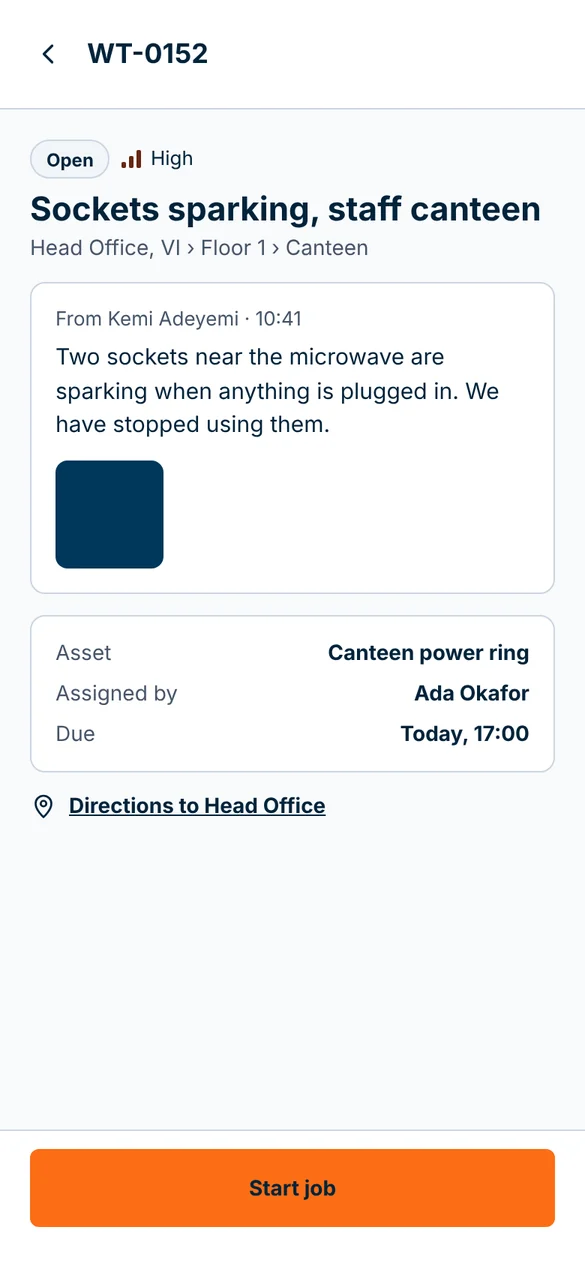
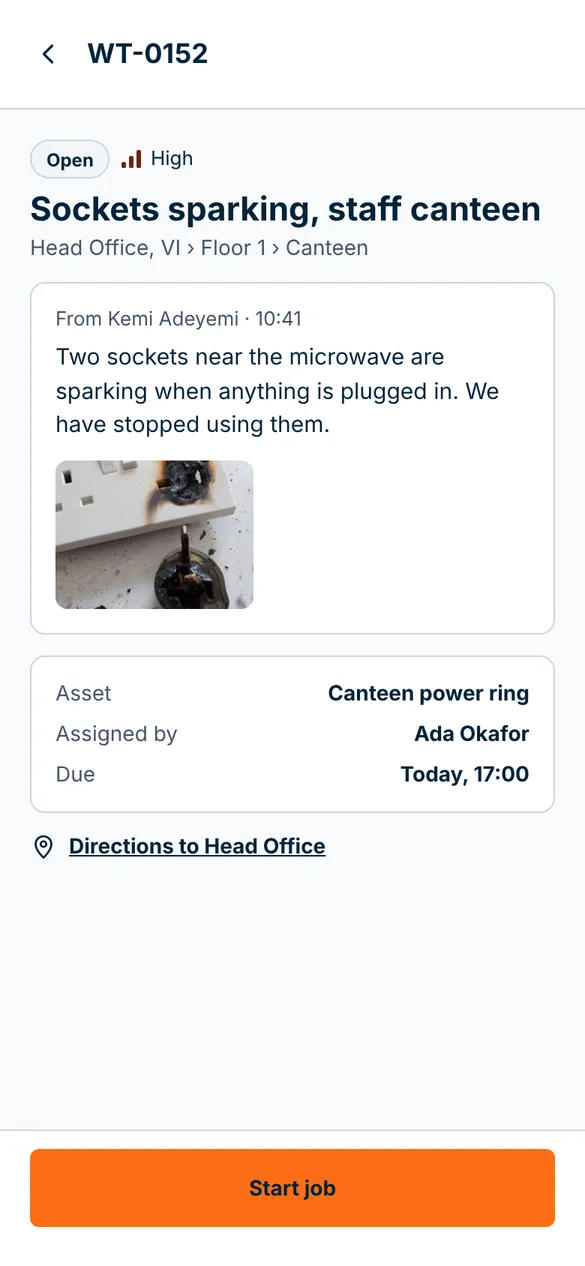
Hero overlap animation, socket photo on request screens, uncropped framed screens
- Dashboard and phone swap to the front on hover, focus or tap
- Kemi's photo of the burnt socket on the requester and technician screens
- Every product screen shown whole in a browser or phone frame
- Chapter 3 uses the full contractor scorecard screen

Claude-Session: https://claude.ai/code/session_014SJnpxDwj3sERXq2y2114T

Changed region(s): [[0.0615, 0.3389, 0.9538, 0.6777]]

diff --git a/public/index.html b/public/index.html
@@ -21,8 +21,8 @@
   <meta name="twitter:card" content="summary_large_image">
   <link rel="icon" href="assets/kivo-icon.svg" type="image/svg+xml">
   <link rel="stylesheet" href="home.css?v=20261113-3">
-  <link rel="stylesheet" href="recraft.css?v=20261127-7">
-  <script src="app.js?v=20261127-7" defer></script>
+  <link rel="stylesheet" href="recraft.css?v=20261127-8">
+  <script src="app.js?v=20261127-8" defer></script>
 </head>
 <body class="kivo-home editorial-home">
 <a class="skip-link" href="#main">Skip to content</a>
@@ -49,9 +49,14 @@
         <p class="capture-note">Free to join · 20% off your first 6 months · <a href="https://zoho183.zohobookings.eu/273883000000035071" target="_blank" rel="noopener noreferrer">or book a demo</a></p>
       </div>
       <div class="stage-media">
-        <div class="stage-slab">
-          <img class="stage-screen" src="assets/product/dashboard.webp" alt="Kivo dashboard for Meridian Bank: tickets opened, jobs done on time, average time to seen, tickets that need attention" width="1800" height="962" fetchpriority="high" decoding="async">
-          <img class="stage-phone" src="assets/product/phone-request.webp" alt="A requester's phone showing request WT-0152: seen by the facility team, assigned to Tunde, being fixed" width="585" height="1266" decoding="async">
+        <div class="stage-slab" id="stage-slab" data-front="rest">
+          <figure class="stage-window" data-layer="screen" tabindex="0" aria-label="Kivo dashboard on desktop. Hover or focus to bring it forward.">
+            <div class="window-bar" aria-hidden="true"><i></i><i></i><i></i><span>app.kivo.africa</span></div>
+            <img src="assets/product/dashboard.webp" alt="Kivo dashboard for Meridian Bank: tickets opened, jobs done on time, average time to seen, needs attention, contractor scorecards and backlog by site" width="1800" height="1381" fetchpriority="high" decoding="async">
+          </figure>
+          <figure class="stage-device" data-layer="phone" tabindex="0" aria-label="Kivo on a requester's phone. Hover or focus to bring it forward.">
+            <img src="assets/product/phone-request.webp" alt="Kemi's phone showing request WT-0152 with her photo of the burnt socket: seen by the facility team, assigned to Tunde, being fixed" width="585" height="1266" decoding="async">
+          </figure>
         </div>
       </div>
     </div>
@@ -77,8 +82,8 @@
       </div>
       <article class="chapter">
         <div class="chapter-media chapter-phones">
-          <img src="assets/product/phone-request.webp" alt="Requester view of WT-0152 with each step ticked: sent, seen, assigned, being fixed" width="585" height="1266" loading="lazy" decoding="async">
-          <img src="assets/product/phone-tech.webp" alt="Technician view of the same job with the asset, who assigned it, the due time and a Start job button" width="585" height="1266" loading="lazy" decoding="async">
+          <figure class="device"><img src="assets/product/phone-request.webp" alt="Requester view of WT-0152 with her photo and each step ticked: sent, seen, assigned, being fixed" width="585" height="1266" loading="lazy" decoding="async"></figure>
+          <figure class="device"><img src="assets/product/phone-tech.webp" alt="Technician view of the same job with Kemi’s photo of the burnt socket, the asset, who assigned it, the due time and a Start job button" width="585" height="1266" loading="lazy" decoding="async"></figure>
         </div>
         <div class="chapter-copy">
           <p class="chapter-label">01 · Report and fix</p>
@@ -89,7 +94,7 @@
       </article>
       <article class="chapter chapter-flip">
         <div class="chapter-media chapter-screen">
-          <img src="assets/product/supplier-bill.webp" alt="Kivo stopping a supplier bill: Okon billed 2 drums of engine oil and only 1 arrived, ₦48,000 more than delivered" width="1600" height="806" loading="lazy" decoding="async">
+          <figure class="window"><div class="window-bar" aria-hidden="true"><i></i><i></i><i></i><span>app.kivo.africa</span></div><img src="assets/product/supplier-bill.webp" alt="Kivo stopping a supplier bill: Okon billed 2 drums of engine oil and only 1 arrived, ₦48,000 more than delivered. Each line checked against the LPO and waybill." width="1800" height="1125" loading="lazy" decoding="async"></figure>
         </div>
         <div class="chapter-copy">
           <p class="chapter-label">02 · Settle</p>
@@ -100,12 +105,12 @@
       </article>
       <article class="chapter">
         <div class="chapter-media chapter-screen">
-          <img src="assets/product/dashboard-scorecard.webp" alt="Contractor scorecards out of 100 and the open backlog for each Meridian Bank site" width="1400" height="332" loading="lazy" decoding="async">
+          <figure class="window"><div class="window-bar" aria-hidden="true"><i></i><i></i><i></i><span>app.kivo.africa</span></div><img src="assets/product/contractor-scorecard.webp" alt="Bayo Electrical’s contractor scorecard: 92 out of 100 across quality, speed, cost and communication, with recent jobs and ratings" width="1800" height="1125" loading="lazy" decoding="async"></figure>
         </div>
         <div class="chapter-copy">
           <p class="chapter-label">03 · Oversee</p>
-          <h3>Every site and contractor, side by side.</h3>
-          <p>See which branch has the longest backlog and which contractor fixes it first time. Head office gets the whole portfolio; each site manager sees their own.</p>
+          <h3>Know which contractor to call first.</h3>
+          <p>Every contractor gets a score out of 100 from real jobs: quality, speed, cost and how well they keep you updated. Head office sees the whole portfolio; each site manager sees their own.</p>
           <a class="chapter-link" href="#pricing">See plans for multi-site teams<svg class="arrow" viewBox="0 0 16 16" aria-hidden="true"><path d="M3 8h9M8.5 4.5 12 8l-3.5 3.5"/></svg></a>
         </div>
       </article>

diff --git a/public/recraft.css b/public/recraft.css
@@ -840,3 +840,49 @@ button.editorial-link{background:none;border:0;padding:0;cursor:pointer;font:inh
 .footer-legal{padding-right:170px}
 @media (max-width:620px){.footer-legal{padding-right:0;padding-bottom:64px}}
 @media (max-width:620px){.join-benefits{display:none}.join-aside{padding:18px 22px}.join-aside-title{margin-top:4px}}
+
+/* ===== v2.1: full-frame screens and interactive hero overlap ===== */
+.window-bar{display:flex;align-items:center;gap:6px;height:28px;padding:0 12px;background:#e8eef3;border-bottom:1px solid #d6dfe6}
+.window-bar i{width:9px;height:9px;border-radius:50%;background:#c3cfd8}
+.window-bar span{margin-left:10px;padding:2px 10px;border-radius:5px;background:#fff;font-size:11px;color:var(--muted);letter-spacing:.01em}
+.window,.stage-window{margin:0;overflow:hidden;border-radius:10px;background:#fff;box-shadow:0 1px 0 #ffffff14,0 24px 50px -20px rgb(2 35 58 / .45)}
+.window img,.stage-window img{display:block;width:100%;height:auto}
+.device,.stage-device{margin:0;overflow:hidden;background:#011a2c;border:7px solid #011a2c;border-radius:30px;box-shadow:0 24px 50px -16px rgb(2 35 58 / .5)}
+.device img,.stage-device img{display:block;width:100%;height:auto;border-radius:23px}
+
+/* Hero stage: whole dashboard, phone overlapping; hover/focus brings either forward */
+.stage-media{margin-right:0;padding-bottom:64px}
+.stage-slab{position:relative;padding:0;border-radius:0;background:none;box-shadow:none}
+.stage-slab::after{display:none}
+.stage-window{position:relative;z-index:1;margin-left:72px;cursor:pointer;transition:transform .5s var(--ease),filter .5s var(--ease),box-shadow .5s var(--ease)}
+.stage-device{position:absolute;z-index:2;left:0;bottom:-56px;width:min(31%,200px);cursor:pointer;transition:transform .5s var(--ease),filter .5s var(--ease),box-shadow .5s var(--ease)}
+.stage-window:focus-visible,.stage-device:focus-visible{outline:3px solid var(--orange);outline-offset:4px}
+.stage-slab[data-front="phone"] .stage-device{transform:translate(-6px,-14px) scale(1.06);box-shadow:0 36px 70px -18px rgb(0 0 0 / .7)}
+.stage-slab[data-front="phone"] .stage-window{transform:scale(.97) translateX(10px);filter:brightness(.62) saturate(.85)}
+.stage-slab[data-front="screen"] .stage-window{z-index:3;transform:translateY(-6px) scale(1.02);box-shadow:0 40px 80px -24px rgb(0 0 0 / .7)}
+.stage-slab[data-front="screen"] .stage-device{z-index:1;transform:translate(-22px,18px) scale(.92);filter:brightness(.55) saturate(.8)}
+@media (prefers-reduced-motion:reduce){.stage-window,.stage-device{transition:none}}
+
+/* Chapters: whole screens, framed */
+.chapter-media{background:linear-gradient(150deg,#e3ebf2,#cfdbe5);padding:clamp(20px,3vw,36px)}
+.chapter-screen,.chapter-flip .chapter-screen{padding:clamp(20px,3vw,36px)}
+.chapter-phones{height:auto;display:flex;justify-content:center;align-items:flex-start;gap:clamp(14px,2.5vw,28px);padding:clamp(24px,3.5vw,40px)}
+.chapter-phones .device{width:min(42%,240px);flex:none}
+.chapter-phones .device+.device{margin-top:40px}
+.chapter-phones img,.chapter-phones img+img{width:100%;border:0;border-radius:23px;box-shadow:none;transform:none;margin:0;background:none}
+
+@media (max-width:1100px){.stage-media{margin-left:0;margin-right:0}.stage-window{margin-left:56px}}
+@media (max-width:620px){
+  .stage-media{padding-bottom:48px}
+  .stage-window{margin-left:36px}
+  .stage-device{width:34%;bottom:-40px;border-width:5px;border-radius:20px}
+  .stage-device img{border-radius:15px}
+  .window-bar{height:20px;padding:0 8px;gap:4px}
+  .window-bar i{width:6px;height:6px}
+  .window-bar span{font-size:9px;padding:1px 6px;margin-left:6px}
+  .device{border-width:5px;border-radius:22px}
+  .device img{border-radius:17px}
+}
+.chapter{grid-template-columns:minmax(0,1.3fr) minmax(0,.7fr)}
+.chapter-flip{grid-template-columns:minmax(0,.7fr) minmax(0,1.3fr)}
+@media (max-width:980px){.chapter,.chapter-flip{grid-template-columns:1fr}}

diff --git a/public/app.js b/public/app.js
@@ -464,3 +464,19 @@ if (joinForm && joinDialog) {
   });
   setStep(1);
 }
+
+
+/* ---------- Hero: bring the dashboard or the phone to the front ---------- */
+const stageSlab = document.getElementById('stage-slab');
+if (stageSlab) {
+  const layers = Array.from(stageSlab.querySelectorAll('[data-layer]'));
+  const setFront = (value) => { stageSlab.dataset.front = value; };
+  for (const layer of layers) {
+    layer.addEventListener('pointerenter', event => { if (event.pointerType === 'mouse') setFront(layer.dataset.layer); });
+    layer.addEventListener('focus', () => { if (layer.matches(':focus-visible')) setFront(layer.dataset.layer); });
+    layer.addEventListener('pointerup', event => { if (event.pointerType !== 'mouse') setFront(stageSlab.dataset.front === layer.dataset.layer ? 'rest' : layer.dataset.layer); });
+    layer.addEventListener('keydown', event => { if (event.key === 'Escape') { setFront('rest'); layer.blur(); } });
+  }
+  stageSlab.addEventListener('pointerleave', event => { if (event.pointerType === 'mouse' && !stageSlab.contains(document.activeElement)) setFront('rest'); });
+  stageSlab.addEventListener('focusout', event => { if (!stageSlab.contains(event.relatedTarget)) setFront('rest'); });
+}

diff --git a/public/cookies.html b/public/cookies.html
@@ -21,8 +21,8 @@
   <meta name="twitter:card" content="summary_large_image">
   <link rel="icon" href="assets/kivo-icon.svg" type="image/svg+xml">
   <link rel="stylesheet" href="home.css?v=20261113-3">
-  <link rel="stylesheet" href="recraft.css?v=20261127-7">
-  <script src="app.js?v=20261127-7" defer></script>
+  <link rel="stylesheet" href="recraft.css?v=20261127-8">
+  <script src="app.js?v=20261127-8" defer></script>
 </head>
 <body class="kivo-home editorial-home legal-page">
 <a class="skip-link" href="#main">Skip to content</a>

diff --git a/public/privacy.html b/public/privacy.html
@@ -21,8 +21,8 @@
   <meta name="twitter:card" content="summary_large_image">
   <link rel="icon" href="assets/kivo-icon.svg" type="image/svg+xml">
   <link rel="stylesheet" href="home.css?v=20261113-3">
-  <link rel="stylesheet" href="recraft.css?v=20261127-7">
-  <script src="app.js?v=20261127-7" defer></script>
+  <link rel="stylesheet" href="recraft.css?v=20261127-8">
+  <script src="app.js?v=20261127-8" defer></script>
 </head>
 <body class="kivo-home editorial-home legal-page">
 <a class="skip-link" href="#main">Skip to content</a>

diff --git a/public/terms.html b/public/terms.html
@@ -21,8 +21,8 @@
   <meta name="twitter:card" content="summary_large_image">
   <link rel="icon" href="assets/kivo-icon.svg" type="image/svg+xml">
   <link rel="stylesheet" href="home.css?v=20261113-3">
-  <link rel="stylesheet" href="recraft.css?v=20261127-7">
-  <script src="app.js?v=20261127-7" defer></script>
+  <link rel="stylesheet" href="recraft.css?v=20261127-8">
+  <script src="app.js?v=20261127-8" defer></script>
 </head>
 <body class="kivo-home editorial-home legal-page">
 <a class="skip-link" href="#main">Skip to content</a>
